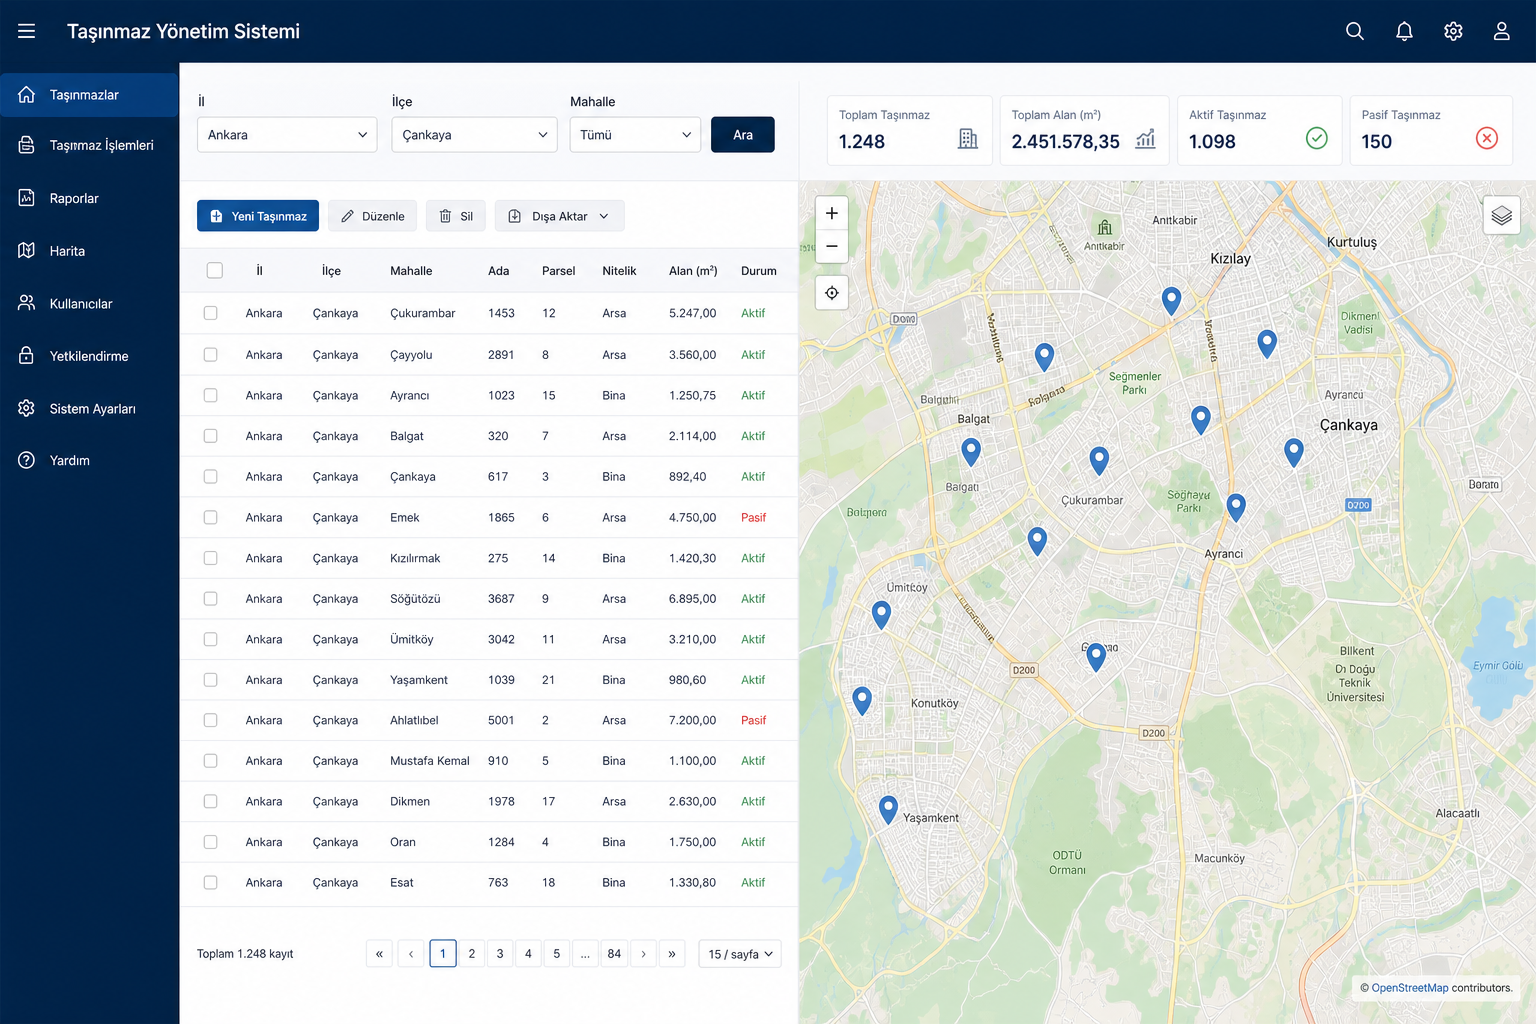
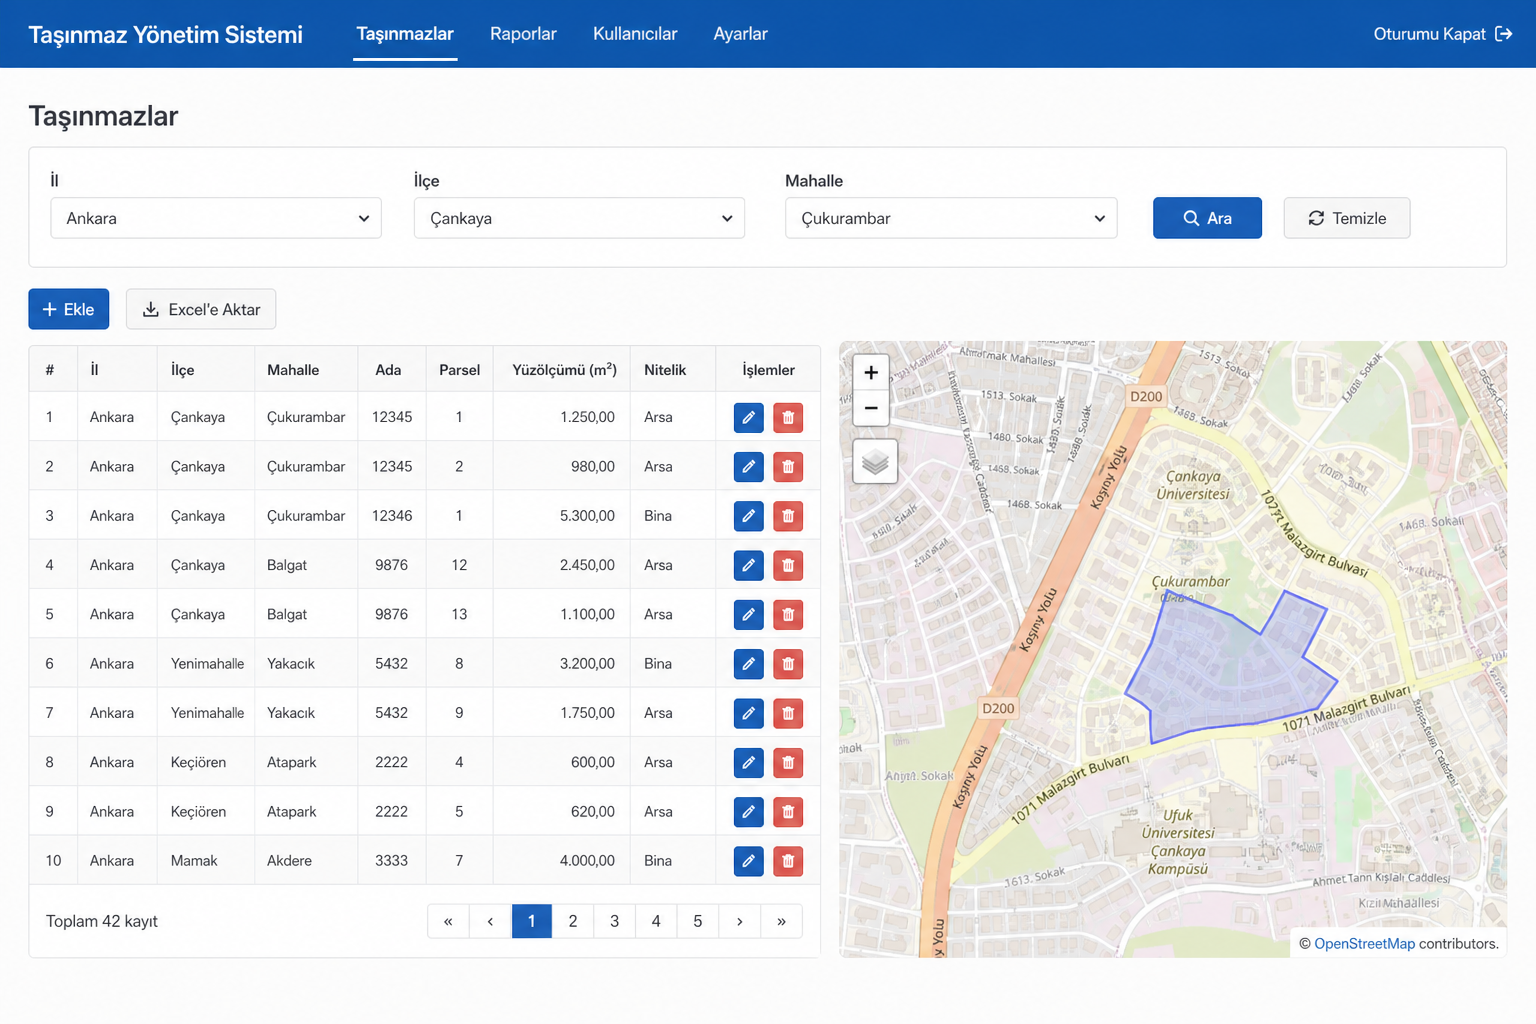
feat: refresh project case studies and galleries

diff --git a/src/content/projects.ts b/src/content/projects.ts
@@ -16,27 +16,47 @@ export const projects: readonly Project[] = [
     contributions: ['Built consistent REST aggregation for document and global date filters, session activity, field analytics, and trends.', 'Added bounded, paginated all-document and recent-session views with deterministic ordering.', 'Implemented completion-time ranges and journey-stage breakdowns for incomplete signing sessions.', 'Added privacy-aware signer metadata and GeoIP-based country resolution where source data allowed it.', 'Developed an evidence-based 0–100 field-friction model with confidence and explainable signals.', 'Improved document-health and AI insight presentation with safe labels, bounded prompts, human-readable terminology, and expandable recommended actions.', 'Refined the analytics information architecture, cards, charts, colors, controls, and field ordering for faster interpretation.', 'Supported versioned migrations, data cleanup, PHPUnit coverage, and API contract documentation.'],
     technologies: ['PHP', 'REST APIs', 'Analytics aggregation', 'Data modeling', 'GeoIP', 'AI-assisted reporting', 'PHPUnit', 'OpenAPI'], outcomes: ['Consistent analytics semantics across filter scopes', 'Explainable field-friction and journey insights', 'Scalable document/session reporting', 'Clearer user-facing health and AI guidance'], links: [],
     media: [
-      { src: '/media/projects/jotform/jotform-signing-trends.webp', alt: 'Signing analytics trends with completion and engagement breakdowns', kind: 'screenshot' },
-      { src: '/media/projects/jotform/jotform-field-analysis.webp', alt: 'Field analysis view showing interaction and friction signals', kind: 'screenshot' },
-      { src: '/media/projects/jotform/jotform-engagement-insights.webp', alt: 'Engagement insights dashboard with session and journey metrics', kind: 'screenshot' },
-      { src: '/media/projects/jotform/jotform-ai-analysis.webp', alt: 'Document health and AI-assisted recommendations view', kind: 'screenshot' },
+      { src: '/media/projects/jotform/jotform-01-overview.webp', alt: 'Sign Insights overview with completion totals and timing ranges', kind: 'screenshot' },
+      { src: '/media/projects/jotform/jotform-02-signing-trends.webp', alt: 'Signing trends and reasons for incomplete sessions', kind: 'screenshot' },
+      { src: '/media/projects/jotform/jotform-03-signing-sessions.webp', alt: 'Searchable signing-session table with status and timing details', kind: 'screenshot' },
+      { src: '/media/projects/jotform/jotform-04-audience-breakdown.webp', alt: 'Device, browser, operating-system, and country breakdowns', kind: 'screenshot' },
+      { src: '/media/projects/jotform/jotform-05-field-overview.webp', alt: 'Field Analysis overview with tracked events and friction totals', kind: 'screenshot' },
+      { src: '/media/projects/jotform/jotform-06-field-sessions.webp', alt: 'Per-field session counts and effort-level table', kind: 'screenshot' },
+      { src: '/media/projects/jotform/jotform-07-recent-engagement.webp', alt: 'Recent signer engagement table with important activity summaries', kind: 'screenshot' },
+      { src: '/media/projects/jotform/jotform-08-ai-overview.webp', alt: 'AI Insights overview with engagement trend and health metrics', kind: 'screenshot' },
+      { src: '/media/projects/jotform/jotform-09-ai-actions.webp', alt: 'Prioritized AI actions with confidence and friction labels', kind: 'screenshot' },
+      { src: '/media/projects/jotform/jotform-10-ai-analysis.webp', alt: 'Expanded AI analysis with observed signals and watchouts', kind: 'screenshot' },
+      { src: '/media/projects/jotform/jotform-11-field-detail.webp', alt: 'Focused field-session chart and field-type reference table', kind: 'screenshot' },
     ],
   },
   {
-    id: 'internship-workflow-management', title: 'Internship Workflow Management System', subtitle: 'Full Stack / Workflow', categories: ['Full Stack'], status: 'Public Prototype', featured: true,
-    role: 'Full-stack development', summary: 'A prototype for Hacettepe University Computer Engineering that digitizes internship workflows across authentication, reports, semesters, and supervisor verification.',
-    challenge: 'Coordinate role-based internship processes and supporting documents through a single authenticated workflow.',
-    contributions: ['Implemented a React and Vite frontend with protected, role-based pages.', 'Built Spring Boot services using Spring Data JPA and Spring Security.', 'Supported internship report drafts, submission, PDF upload, and status tracking.', 'Modeled semester administration and supervisor request, token, and OTP verification flows.', 'Containerized the PostgreSQL development database with Docker Compose.'],
-    technologies: ['React', 'Vite', 'Spring Boot', 'Spring Data JPA', 'Spring Security', 'JWT', 'PostgreSQL', 'Docker'], outcomes: ['Working public prototype', 'Role-aware internship workflows', 'Document and verification flows'],
+    id: 'internship-workflow-management', title: 'Internship Workflow Management System', subtitle: 'Full Stack / Workflow', categories: ['Full Stack'], status: 'Public Full-stack Prototype', year: '2026', featured: true,
+    role: 'Full-stack engineer across workflow design, frontend, backend, database, and automated tests', summary: 'A role-based internship management prototype for Hacettepe University Computer Engineering. It connects students, coordinators, administrators, companies, and supervisors across report submission, verification, certification, and assessment.',
+    challenge: 'Replace disconnected forms and manual follow-up with one traceable workflow while enforcing role permissions, document rules, company-domain checks, semester constraints, and secure one-time supervisor access.',
+    contributions: [
+      'Built React and Vite interfaces for Student, Coordinator, Admin, and external Supervisor workflows with protected, role-aware navigation.',
+      'Implemented Spring Boot REST services with Spring Data JPA, Spring Security, JWT authentication, validation, and centralized API error handling.',
+      'Developed the internship-report lifecycle: draft creation, multi-step editing, attendance and duration checks, PDF upload, submission, status history, and final assessment.',
+      'Implemented public company registration, corporate-domain validation, duplicate handling, and administrator approval or rejection with reviewer trace data.',
+      'Created supervisor request, approval, token and OTP verification, retry lockout, one-time access, certification, and expiry flows.',
+      'Added semester management with overlap validation and active-student ID review for malformed or invalid entries.',
+      'Implemented FAQ and announcement publishing plus user-management and company-review administration screens.',
+      'Containerized PostgreSQL for local development and configured the frontend and backend for independent public deployment.',
+      'Covered core use cases with Spring Boot tests, frontend component tests, and Playwright end-to-end flows.',
+    ],
+    technologies: ['React', 'Vite', 'Axios', 'React Router', 'Spring Boot', 'Spring Data JPA', 'Spring Security', 'JWT', 'PostgreSQL', 'Docker Compose', 'JUnit', 'Vitest', 'Playwright'], outcomes: ['End-to-end report, supervisor certification, and assessment lifecycle', 'Separate permissions and navigation for four user roles', 'Validated company, semester, document, token, and OTP workflows', 'Publicly accessible frontend and backend demo', 'Automated coverage for demo-critical use cases'],
     links: [
       { label: 'View Repository', href: 'https://github.com/htenlik/Internship-Workflow-Management-System', icon: '/icons/github.svg' },
       { label: 'Go to Live Demo', href: 'https://internship-workflow-management-syst.vercel.app/', icon: '/icons/globe.svg' },
     ],
     media: [
-      { src: '/media/projects/internship-workflow/iwms-student-dashboard.jpg', alt: 'IWMS student dashboard and company registration entry point', kind: 'screenshot' },
-      { src: '/media/projects/internship-workflow/iwms-report-workflow.jpg', alt: 'IWMS internship report workflow and internship information form', kind: 'screenshot' },
-      { src: '/media/projects/internship-workflow/iwms-status-tracking.jpg', alt: 'IWMS report status tracking and lifecycle view', kind: 'screenshot' },
-      { src: '/media/projects/internship-workflow/internship-workflow-preview.svg', alt: 'Internship workflow from applicant through completion', kind: 'diagram' },
+      { src: '/media/projects/internship-workflow/iwms-01-login.webp', alt: 'IWMS role-based login and public entry points', kind: 'screenshot' },
+      { src: '/media/projects/internship-workflow/iwms-02-student-dashboard.webp', alt: 'Student dashboard with company, report, supervisor, announcement, and FAQ modules', kind: 'screenshot' },
+      { src: '/media/projects/internship-workflow/iwms-03-report-workflow.webp', alt: 'Multi-step internship report editor with saved drafts', kind: 'screenshot' },
+      { src: '/media/projects/internship-workflow/iwms-04-status-tracking.webp', alt: 'Internship status, certification, assessment, and lifecycle tracking', kind: 'screenshot' },
+      { src: '/media/projects/internship-workflow/iwms-05-company-registration.webp', alt: 'Public company registration and administrator review workflow', kind: 'screenshot' },
+      { src: '/media/projects/internship-workflow/iwms-06-supervisor-access.webp', alt: 'One-time supervisor token, verification, and certification portal', kind: 'screenshot' },
+      { src: '/media/projects/internship-workflow/iwms-07-faq-announcements.webp', alt: 'Published internship announcements and frequently asked questions', kind: 'screenshot' },
     ],
   },
   {
@@ -59,8 +79,8 @@ export const projects: readonly Project[] = [
       { label: 'Open Technical Report', href: '/media/projects/mpi-torus/BBM442_Huseyin_Tenlik.pdf', icon: '/icons/document.svg' },
     ],
     media: [
-      { src: '/media/projects/mpi-torus/mpi-torus-preview.svg', alt: 'Four by four torus topology with wrap-around links and highlighted root process', kind: 'diagram' },
       { src: '/media/projects/mpi-torus/BBM442_Huseyin_Tenlik.pdf', thumbnail: '/media/projects/mpi-torus/mpi-report-cover.png', alt: 'BBM442 technical report: MPI Gather on 2D Torus using OMNeT++', kind: 'document' },
+      { src: '/media/projects/mpi-torus/mpi-torus-preview.svg', alt: 'Four by four torus topology with wrap-around links and highlighted root process', kind: 'diagram' },
     ],
   },
 ];
